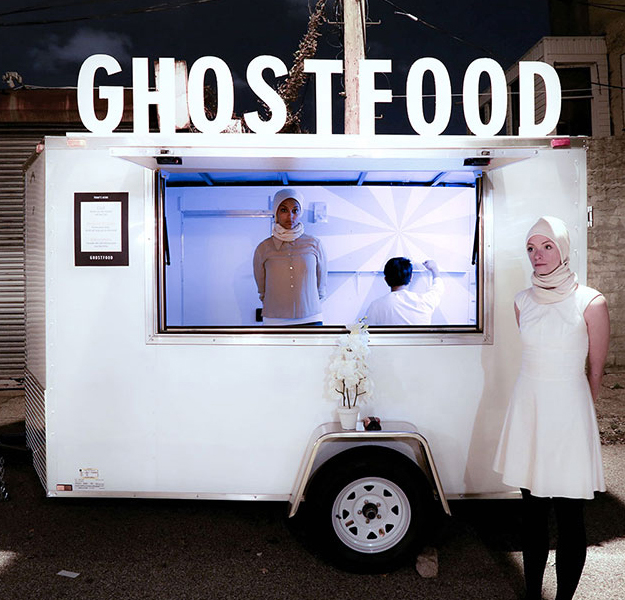
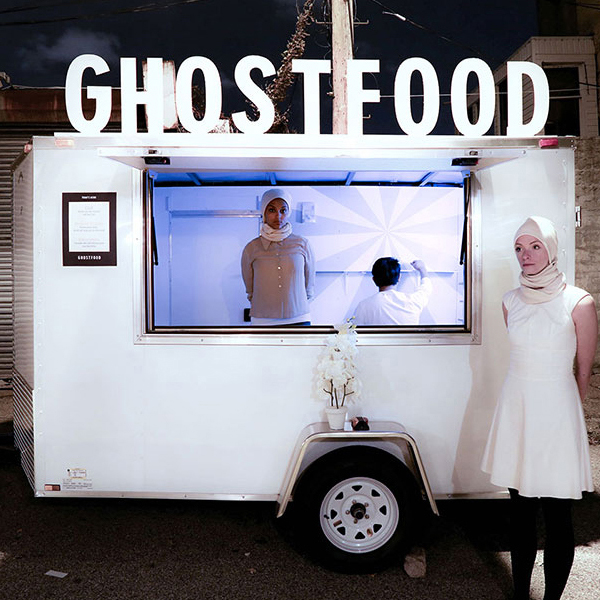
add ghostfood to archive

diff --git a/projects/index.html b/projects/index.html
@@ -157,6 +157,16 @@
 
                 <!-- New Life! -->
                 <div class="project-thumb col-xs-6 col-sm-4 col-md-3">
+                  <a class="block-link" href="">
+                    <time>2015</time>
+                    <img src="/img/projects/2015-miriam-simun/ghostfood-init.jpg" />
+                    <h3>GhostFood</h3>
+                    <p>Sites: Various</p>
+                    <p>Miriam Simun</p>
+                  </a>
+                </div>
+                <!-- New Life! -->
+                <div class="project-thumb col-xs-6 col-sm-4 col-md-3">
                   <a class="block-link" href="/projects/bubble-over-green/">
                     <time>2015</time>
                     <img src="/img/projects/2015-02-21-victoriafu/2015-bubble-over-green.jpg" />

diff --git a/index.html b/index.html
@@ -194,11 +194,6 @@
                     <!-- printing this out with json magix -->
                   </ul>
                 </div>
-                <div class="homepage-graphic">
-                  <a href="https://www.eventbrite.com/e/talking-shop-art-activism-tickets-21678421743">
-                    <img src="/img/speakers/talkingshop/mar10-ArtActivism.jpg" style="width: 100%; height: auto;">
-                  </a>
-                </div>
               </section>
 
               <section class="col-sm-4 col-md-2 col-lg-2 connect">
